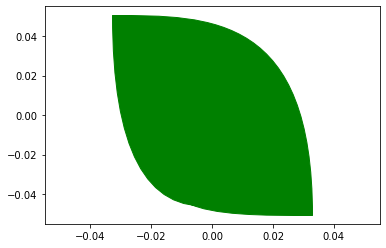
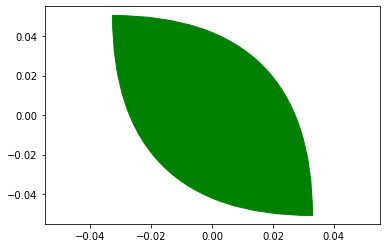
Initial commit

Changed region(s): [[0.2798, 0.1694, 0.7772, 0.875], [0.3109, 0.0565, 0.8083, 0.7339]]

diff --git a/marker-tutorial.html b/marker-tutorial.html
@@ -72,7 +72,7 @@
 									<script src="https://gist.github.com/petercbsmith/f71e460b2717bf808791084976b99c17.js"></script>
     								<img src="blog_assets/marker_tutorial/plot1.png" alt="" />
 
-    								<p> However, if these don't quite cut it, you can draw your own shapes by creating matplotlib  𝙿𝚊𝚝𝚑  objects. Path objects consist of two lists: one of the shape's vertices, and other with descriptions on how to draw the lines between those vertices, called codes. Here's a simple square:</p>
+    								<p> However, if these don't quite cut it, you can draw your own shapes by creating matplotlib  𝙿𝚊𝚝𝚑  objects. Path objects consist of two lists: one of the shape's vertices, and other with descriptions on how to draw the lines between those vertices, called codes. The path code tells python how to draw the line to the corresponding vertex from the previous one. Here's a simple square:</p>
 
     								<script src="https://gist.github.com/petercbsmith/44f25a0878199e9dc5bc782825f5d2e5.js"></script>
 
@@ -82,7 +82,7 @@
     								<script src="https://gist.github.com/petercbsmith/3aa7e7a6e98c615464174601b7b29271.js"></script>
     								<img src="blog_assets/marker_tutorial/plot3.png" alt="" />
 
-    								<p> It's a leaf! You may have noticed I used two different path codes here. CURVE3 draws a quadratic Bezier curve from that point, uses the next vertex as a "control point" and ends at the point after that (3 points total). CURVE4 behaves similarly except with 2 control points instead of 1 (4 points total). Looking at my creation up close, I'm satisfied and can plot my leaves blowing sinusoidally in the wind:</p>
+    								<p> It's a leaf! You may have noticed I used a different path code here. CURVE3 draws a quadratic Bezier curve over 3 points: 2 endpoints and one control point. The vertex you give the CURVE3 code will be the control point of a curve beginning from the vertex before it and ending at the one after it (3 points total). There is another possible code, CURVE4, which is the same thing but with 2 control points. Check out <a href="https://matplotlib.org/stable/tutorials/advanced/path_tutorial.html">here</a> for more info. Looking at my creation up close, I'm satisfied and can plot my leaves blowing sinusoidally in the wind:</p>
     								<script src="https://gist.github.com/petercbsmith/5bc155aaba2aaf8365586a66eea1aa68.js"></script>
     								<img src="blog_assets/marker_tutorial/plot4.png" alt="" />
 
